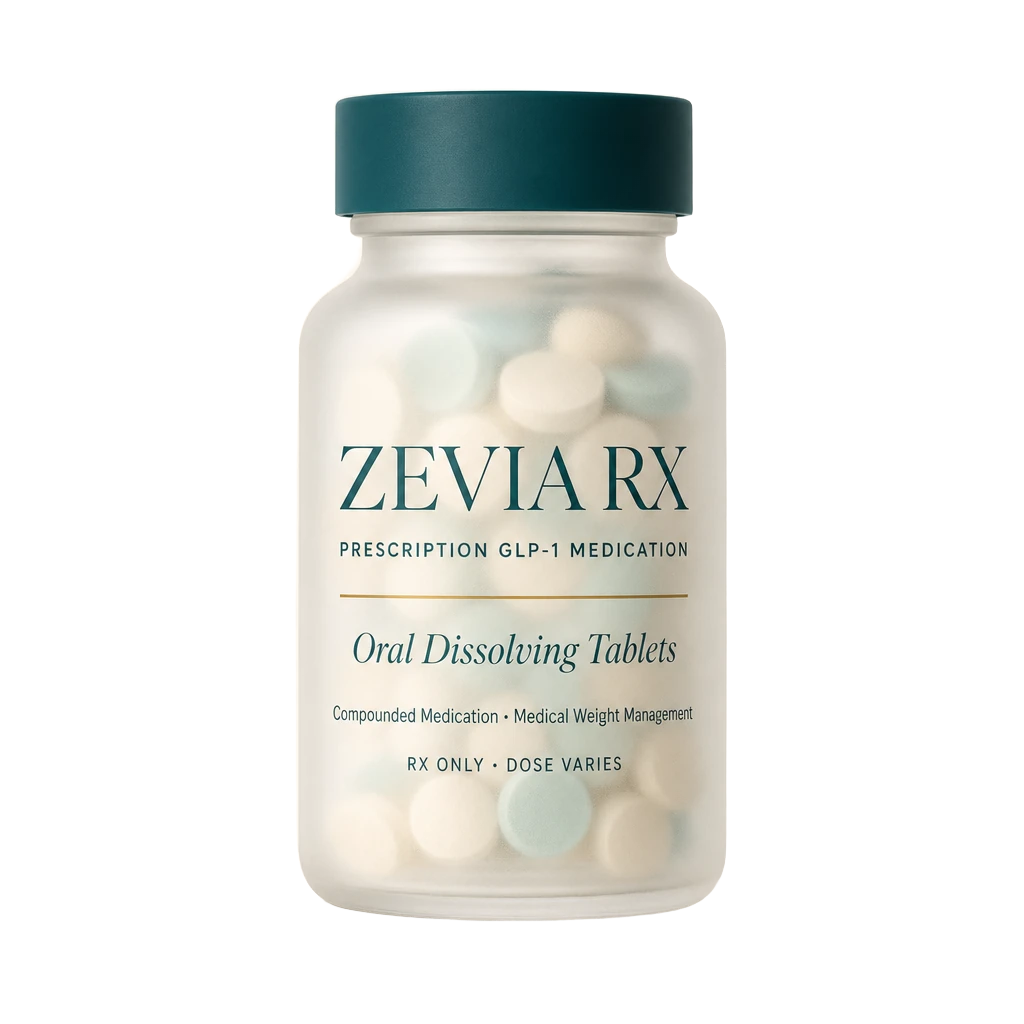
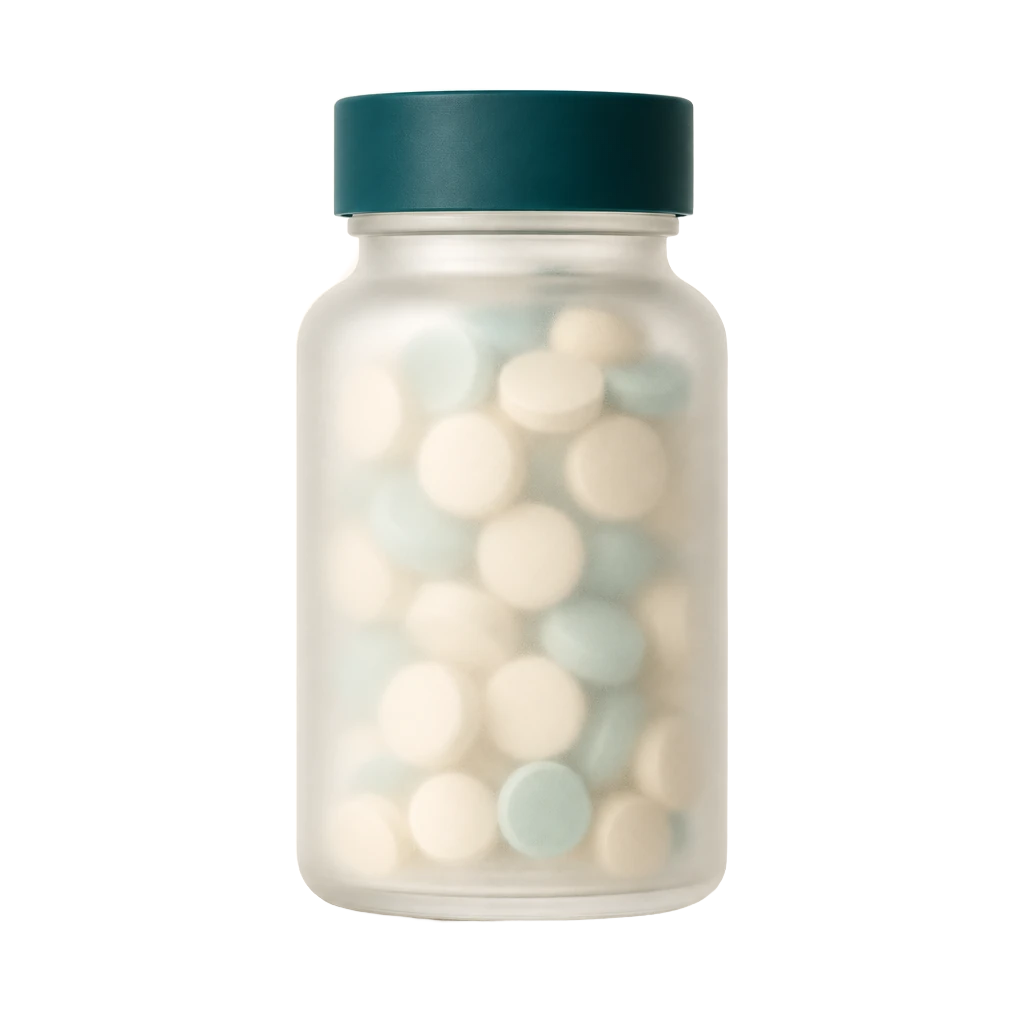
LS1.7: unbranded product images + illustrative/compounder captions (index v20, quiz v39)

Changed region(s): [[0.3125, 0.5, 0.6875, 0.7812], [0.3125, 0.4375, 0.5625, 0.5], [0.5938, 0.4375, 0.6875, 0.5]]

diff --git a/quiz.html b/quiz.html
@@ -403,15 +403,15 @@ try{
       <h1 style="font-size:28px">Choose your medication.</h1>
       <p class="hint">Select the treatment you'd like to be considered for — your provider makes the final call on your prescription.</p>
       <div class="opts" id="medGrid">
-        <button class="opt med-opt" data-med="sema"><img src="vial-cutout.webp" alt="Semaglutide vial"><div>Semaglutide<small>Compounded · Weekly Injection · $125 first month, then $299/mo</small></div></button>
-        <button class="opt med-opt" data-med="tirz"><img src="vial-cutout.webp" alt="Tirzepatide vial"><div>Tirzepatide<small>Compounded · Weekly Injection · $166 first month, then $349/mo</small></div></button>
-        <button class="opt med-opt" data-med="oral"><img src="tablets-cutout.webp" alt="Oral dissolving tablets bottle"><div>Oral Tablets<small>Compounded · Daily Sublingual · $99 first month, then $249/mo</small></div></button>
+        <button class="opt med-opt" data-med="sema"><img src="vial-unbranded.webp" alt="Illustrative vial image (not the actual product)"><div>Semaglutide<small>Compounded · Weekly Injection · $125 first month, then $299/mo</small></div></button>
+        <button class="opt med-opt" data-med="tirz"><img src="vial-unbranded.webp" alt="Illustrative vial image (not the actual product)"><div>Tirzepatide<small>Compounded · Weekly Injection · $166 first month, then $349/mo</small></div></button>
+        <button class="opt med-opt" data-med="oral"><img src="tablets-unbranded.webp" alt="Illustrative tablet bottle image (not the actual product)"><div>Oral Tablets<small>Compounded · Daily Sublingual · $99 first month, then $249/mo</small></div></button>
       </div>
-      <!-- zx-ls1-compound-disc --><div style="margin:18px auto 0;padding:14px 16px;border:1px solid var(--cream-deep);border-radius:12px;background:#fff;font:500 12px/1.6 'Inter';color:var(--ink-soft);text-align:left">Compounded medications are prepared by state-licensed 503A compounding pharmacies pursuant to a patient-specific prescription from a licensed healthcare provider. Compounded drugs are not FDA-approved and are not commercially manufactured products; the FDA does not evaluate compounded products for safety, effectiveness, or quality.</div><!-- /zx-ls1-compound-disc -->
+      <!-- zx-ls1-compound-disc --><div style="margin:18px auto 0;padding:14px 16px;border:1px solid var(--cream-deep);border-radius:12px;background:#fff;font:500 12px/1.6 'Inter';color:var(--ink-soft);text-align:left"><!-- zx-ls1.7-images-20261106 -->Product images are illustrative only and do not depict the actual product you will receive. Medications are compounded and dispensed by Hallandale Pharmacy, a state-licensed 503A compounding pharmacy in Fort Lauderdale, FL &mdash; not by Zevia Rx &mdash; and the product you receive carries the pharmacy&rsquo;s own label with your name, your prescriber, the medication, strength, and directions. Compounded medications are prepared by state-licensed 503A compounding pharmacies pursuant to a patient-specific prescription from a licensed healthcare provider. Compounded drugs are not FDA-approved and are not commercially manufactured products; the FDA does not evaluate compounded products for safety, effectiveness, or quality.</div><!-- /zx-ls1-compound-disc -->
     </div>
     <div class="chosen-med" id="medChosen" style="display:none">
-      <img id="chosenImg" src="vial-cutout.webp" alt="">
-      <div><div class="name" id="chosenName">Semaglutide</div><div class="meta" id="chosenMeta">Compounded · Weekly Injection</div></div>
+      <img id="chosenImg" src="vial-unbranded.webp" alt="Illustrative image (not the actual product)">
+      <div><div class="name" id="chosenName">Semaglutide</div><div class="meta" id="chosenMeta">Compounded · Weekly Injection</div><div class="meta" style="font-size:11px;margin-top:2px">Image is illustrative &middot; compounded and dispensed by Hallandale Pharmacy, not Zevia Rx</div></div><!-- zx-ls1.7-images-20261106 -->
       <button class="back" id="changeMed">Change ↺</button>
     </div>
     <div id="planSection" style="display:none;margin-top:34px">
@@ -999,7 +999,7 @@ document.getElementById('seeResults').addEventListener('click',()=>{
 });
 
 /* ---------- medication selection ---------- */
-const MED_IMGS = {sema:'vial-cutout.webp', tirz:'vial-cutout.webp', oral:'tablets-cutout.webp'};
+const MED_IMGS = {sema:'vial-unbranded.webp', tirz:'vial-unbranded.webp', oral:'tablets-unbranded.webp'}; // zx-ls1.7-images-20261106
 function applyMed(key){
   S.med = key;
   const m = MEDS[key];

diff --git a/index.html b/index.html
@@ -340,7 +340,7 @@ footer .logo{color:#fff;margin-bottom:14px}
     <p class="sub" style="margin-left:auto;margin-right:auto">Prices shown are the medication cost, billed monthly at the stated rate until you cancel (multi-month plans are paid up front or financed in monthly installments). A one-time $63.75 cold-chain shipping fee and a $20 provider consultation fee are added at checkout, and every option is itemized before you pay.</p>
     <div class="med-grid">
       <div class="med-card">
-        <img class="prod" src="vial-cutout.webp" alt="Zevia Rx prescription GLP-1 injection vial">
+        <img class="prod" src="vial-unbranded.webp" alt="Illustrative image of a compounded injectable medication vial (not the actual product)">
         <h3>Semaglutide</h3>
         <div class="kind">Compounded · Weekly Injection</div>
         <div class="m-price">$125<small> first month</small></div>
@@ -354,7 +354,7 @@ footer .logo{color:#fff;margin-bottom:14px}
       </div>
       <div class="med-card featured">
         <div class="flag">Most Popular</div>
-        <img class="prod" src="vial-cutout.webp" alt="Zevia Rx prescription GLP-1 injection vial">
+        <img class="prod" src="vial-unbranded.webp" alt="Illustrative image of a compounded injectable medication vial (not the actual product)">
         <h3>Tirzepatide</h3>
         <div class="kind">Compounded · Weekly Injection</div>
         <div class="m-price">$166<small> first month</small></div>
@@ -368,7 +368,7 @@ footer .logo{color:#fff;margin-bottom:14px}
         <a class="btn" href="quiz.html?med=tirz">Get Started</a>
       </div>
       <div class="med-card">
-        <img class="prod" src="tablets-cutout.webp" alt="Zevia Rx prescription GLP-1 oral dissolving tablets bottle">
+        <img class="prod" src="tablets-unbranded.webp" alt="Illustrative image of a compounded oral tablet bottle (not the actual product)">
         <h3>Oral Tablets</h3>
         <div class="kind">Compounded · Daily Sublingual</div>
         <div class="m-price">$99<small> first month</small></div>
@@ -383,7 +383,7 @@ footer .logo{color:#fff;margin-bottom:14px}
       <!-- zx-ls1-removed: three brand-name medication cards (restore from claude/zeviarx-index-v11-2026-10-01.html) -->
     </div>
     <div class="scroll-hint">Scroll to compare options →</div>
-    <!-- zx-ls1-compound-disc --><div style="max-width:880px;margin:22px auto 0;padding:16px 20px;border:1px solid var(--cream-deep);border-radius:12px;background:#fff;font:500 12.5px/1.65 'Inter';color:var(--ink-soft);text-align:left">Compounded medications are prepared by state-licensed 503A compounding pharmacies pursuant to a patient-specific prescription from a licensed healthcare provider. Compounded drugs are not FDA-approved and are not commercially manufactured products; the FDA does not evaluate compounded products for safety, effectiveness, or quality. A prescription is never guaranteed; your provider decides whether treatment is appropriate for you.</div><!-- /zx-ls1-compound-disc -->
+    <!-- zx-ls1-compound-disc --><div style="max-width:880px;margin:22px auto 0;padding:16px 20px;border:1px solid var(--cream-deep);border-radius:12px;background:#fff;font:500 12.5px/1.65 'Inter';color:var(--ink-soft);text-align:left"><!-- zx-ls1.7-images-20261106 -->Product images are illustrative only and do not depict the actual product you will receive. Medications are compounded and dispensed by Hallandale Pharmacy, a state-licensed 503A compounding pharmacy in Fort Lauderdale, FL &mdash; not by Zevia Rx &mdash; and the product you receive carries the pharmacy&rsquo;s own label with your name, your prescriber, the medication, strength, and directions. Compounded medications are prepared by state-licensed 503A compounding pharmacies pursuant to a patient-specific prescription from a licensed healthcare provider. Compounded drugs are not FDA-approved and are not commercially manufactured products; the FDA does not evaluate compounded products for safety, effectiveness, or quality. A prescription is never guaranteed; your provider decides whether treatment is appropriate for you.</div><!-- /zx-ls1-compound-disc -->
     <div class="lock-strip"><b>The Zevia Price-Lock:</b> the price you start at is the price you keep — for as long as you're a member.</div>
   </div>
 </section>
